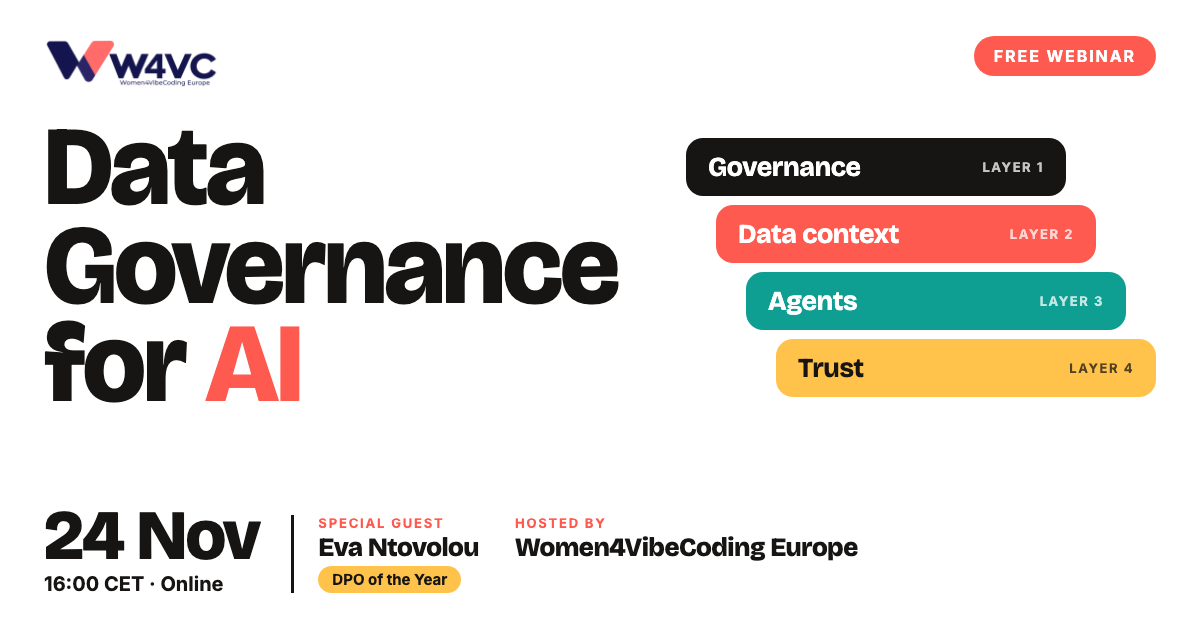
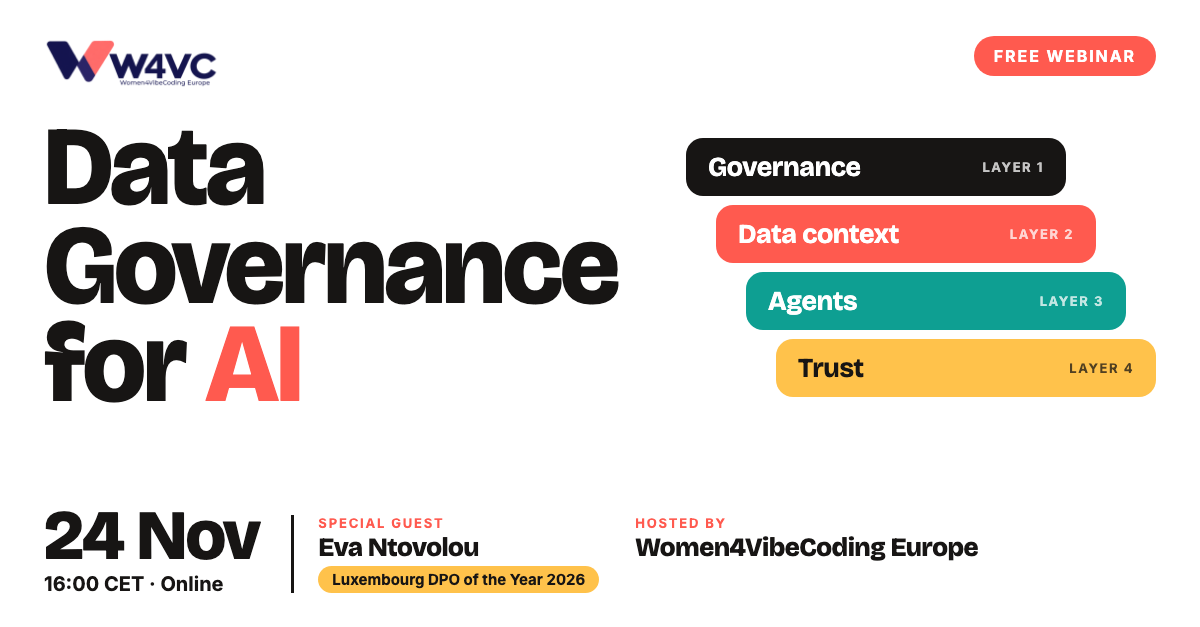
Add files via upload

Changed region(s): [[0.2775, 0.8182, 0.8325, 0.9697]]

diff --git a/partners/index.html b/partners/index.html
@@ -94,7 +94,7 @@ canvas { width: 100%; height: auto; display: block; }
 .tabs { display: grid; grid-template-columns: repeat(4, minmax(0, 1fr)); gap: 10px; }
 .tab { border: 1.5px solid var(--line); background: var(--bg); border-radius: 18px; padding: 16px; text-align: left; display: grid; gap: 4px; color: var(--ink); }
 .tab b { font-family: var(--display); font-weight: 700; font-size: 19px; line-height: 1.1; }
-.tab span { font-family: var(--display); font-weight: 800; font-size: 26px; }
+.tab span { font-family: var(--display); font-weight: 800; font-size: 19px; line-height: 1.15; }
 .tab small { color: var(--muted); font-size: 13px; }
 .tab[aria-selected="true"] { background: var(--ink); border-color: var(--ink); color: #fff; }
 .tab[aria-selected="true"] small { color: #cfc8c4; } .tab[aria-selected="true"] span { color: var(--sun); }
@@ -109,6 +109,8 @@ canvas { width: 100%; height: auto; display: block; }
 .journey i { width: 32px; height: 32px; border-radius: 50%; border: 3px solid var(--line); background: var(--bg); position: relative; z-index: 1; transition: all .25s; }
 .journey li.on { color: var(--ink); }
 .journey li.on i { background: var(--coral); border-color: var(--coral); box-shadow: 0 0 0 6px var(--coral-tint); }
+.journey li.opt { color: var(--ink); }
+.journey li.opt i { border-style: dashed; border-color: var(--coral); }
 .journey li.on.star i { background: var(--ink); border-color: var(--ink); box-shadow: 0 0 0 6px var(--sun); }
 .journey em { font-style: normal; font-weight: 500; font-size: 11px; letter-spacing: .08em; text-transform: uppercase; color: var(--muted); }
 .bars { display: grid; gap: 10px; }
@@ -132,9 +134,11 @@ canvas { width: 100%; height: auto; display: block; }
 .reply h3 { font-weight: 800; font-size: clamp(24px, 3vw, 34px); line-height: 1.05; }
 .reply label { display: grid; gap: 6px; font-size: 12px; font-weight: 700; letter-spacing: .1em; text-transform: uppercase; color: #bdb6b2; margin-top: 16px; }
 .reply input { font: inherit; font-size: 16px; padding: 11px 12px; border-radius: 12px; border: 1.5px solid rgba(255,255,255,.25); background: rgba(255,255,255,.07); color: #fff; width: 100%; }
-.msg { background: rgba(255,255,255,.08); border-radius: 16px; padding: 16px; font-size: 16px; line-height: 1.5; user-select: all; }
+.msg { background: rgba(255,255,255,.08); border-radius: 16px; padding: 16px; font-size: 16px; line-height: 1.5; user-select: all; white-space: pre-wrap; }
 .btns { display: flex; flex-wrap: wrap; gap: 10px; margin-top: 14px; align-items: center; }
-.go { background: var(--coral); color: #fff; border: 0; border-radius: 999px; padding: 12px 22px; font-weight: 700; }
+.go { background: var(--coral); color: #fff; border: 0; border-radius: 999px; padding: 12px 22px; font-weight: 700; text-decoration: none; display: inline-block; }
+.hint { font-size: 13px; color: var(--muted); }
+.ask { justify-self: start; margin-top: 4px; }
 .no { background: transparent; color: #d9d3cf; border: 1.5px solid rgba(255,255,255,.3); border-radius: 999px; padding: 11px 18px; }
 .status { font-size: 13px; color: #cfc8c4; margin-top: 12px; } .status a { color: #fff; }
 
@@ -172,7 +176,7 @@ footer .wrap { padding-block: 22px; display: flex; flex-wrap: wrap; gap: 8px 24p
   <div class="wrap">
     <img src="logo.png" alt="W4VC, Women4VibeCoding Europe">
     <nav aria-label="Sections"><a href="#audience">Audience</a><a href="#layers">The topic</a><a href="#packages">Packages</a><a href="#hosts">Hosts</a></nav>
-    <a class="cta" href="#reserve">Reserve a place</a>
+    <a class="cta" href="#reserve">Request the budget</a>
   </div>
 </div>
 
@@ -190,7 +194,7 @@ footer .wrap { padding-block: 22px; display: flex; flex-wrap: wrap; gap: 8px 24p
         <div><b id="cd-d">12</b><span>days</span></div><div><b id="cd-h">00</b><span>hours</span></div>
         <div><b id="cd-m">00</b><span>min</span></div><div><b id="cd-s">00</b><span>sec</span></div>
       </div>
-      <p>Special guest <b>Eva Ntovolou</b>, DPO of the Year. Hosted by <b>Women4VibeCoding Europe</b>.</p>
+      <p>Special guest <b>Eva Ntovolou</b>, Luxembourg DPO of the Year 2026. Hosted by <b>Women4VibeCoding Europe</b>.</p>
     </div>
   </div>
 </header>
@@ -239,12 +243,13 @@ footer .wrap { padding-block: 22px; display: flex; flex-wrap: wrap; gap: 8px 24p
 
 <section id="packages">
   <div class="wrap">
-    <div class="head"><div class="kicker">Packages</div><h2>See what your brand gets</h2><p>Choose a package. The charts show where your brand appears, from registration to the report. Prices exclude VAT.</p></div>
+    <div class="head"><div class="kicker">Packages</div><h2>See what your brand gets</h2><p>Choose a package. The charts show where your brand appears, from registration to the report. Then ask for the budget: the email is already written for you.</p></div>
     <div class="tabs" role="tablist" aria-label="Packages" id="tabs"></div>
     <div class="bento dash">
       <div class="tile d-journey">
         <h3>Where your brand appears</h3>
         <ol class="journey" id="journey"></ol>
+        <small class="hint">Dashed circle: available on request.</small>
       </div>
       <div class="tile d-bars">
         <h3>Brand touchpoints, out of 8</h3>
@@ -257,6 +262,7 @@ footer .wrap { padding-block: 22px; display: flex; flex-wrap: wrap; gap: 8px 24p
       <div class="tile d-list">
         <h3 id="list-title">Also included</h3>
         <ul id="extras"></ul>
+        <a class="cta ask" href="#reserve" id="ask">Request the budget</a>
       </div>
     </div>
   </div>
@@ -264,17 +270,17 @@ footer .wrap { padding-block: 22px; display: flex; flex-wrap: wrap; gap: 8px 24p
 
 <section id="reserve">
   <div class="wrap">
-    <div class="head"><div class="kicker">Reserve</div><h2>Pick your category</h2><p>One brand per category, so your competitors are not next to you. Tap yours.</p></div>
+    <div class="head"><div class="kicker">Request the budget</div><h2>Pick your category</h2><p>One brand per category, so your competitors are not next to you. Tap yours and the email below is written for you.</p></div>
     <div class="board" id="board"></div>
     <div class="reply">
       <div>
-        <h3>Your reply, ready to send</h3>
+        <h3>Your email, already written</h3>
         <label for="company">Your company<input id="company" type="text" autocomplete="organization" placeholder="Company name"></label>
       </div>
       <div>
         <div class="msg" id="msg"></div>
-        <div class="btns"><button class="go" id="copy" type="button">Copy reply</button><button class="no" id="decline" type="button">Not relevant</button></div>
-        <p class="status" id="status">Copy it and send it to Isabel Buganu on <a href="https://www.linkedin.com/in/isabelbuganu" target="_blank" rel="noopener">LinkedIn</a>. One confirmation, one invoice, no long contract.</p>
+        <div class="btns"><a class="go" id="mail" href="mailto:hello@women4vibecoding.eu">Open in email</a><button class="no" id="copy" type="button">Copy text</button><button class="no" id="decline" type="button">Not relevant</button></div>
+        <p class="status" id="status">It goes to hello@women4vibecoding.eu. If the button does not open your email app, copy the text and send it to that address. We reply with the budget for your category.</p>
       </div>
     </div>
   </div>
@@ -292,7 +298,7 @@ footer .wrap { padding-block: 22px; display: flex; flex-wrap: wrap; gap: 8px 24p
       <div class="person guest">
         <span class="badge">Special guest</span>
         <h3>Eva Ntovolou</h3>
-        <p><b>DPO of the Year.</b> Attorney at law specialising in privacy, data protection and AI governance. She explains why organisations must interpret shared data consistently, and what that means for Luxembourg and Europe.</p>
+        <p><b>Luxembourg DPO of the Year 2026.</b> Attorney at law specialising in privacy, data protection and AI governance. She explains why organisations must interpret shared data consistently, and what that means for Luxembourg and Europe.</p>
       </div>
     </div>
   </div>
@@ -302,8 +308,8 @@ footer .wrap { padding-block: 22px; display: flex; flex-wrap: wrap; gap: 8px 24p
   <div class="wrap">
     <div class="head"><div class="kicker">Next</div><h2>After you say yes</h2></div>
     <ol class="steps">
-      <li><b>Confirm by 19 November</b>Reply with your package and category. We confirm the place is yours.</li>
-      <li><b>Send your material</b>Logo, link, and your code or resource. Featured: we agree your 15-minute topic.</li>
+      <li><b>Ask for the budget</b>Send the ready email with your package and category. We reply with the budget.</li>
+      <li><b>Confirm by 19 November</b>We hold your category, you send logo and link. Featured: we agree your 20-minute topic.</li>
       <li><b>24 November, live</b>Your brand appears in the emails, on the slides and in the session.</li>
       <li><b>Report within 7 days</b>Registrations, live attendance and clicks on your links. No personal data.</li>
     </ol>
@@ -355,22 +361,22 @@ footer .wrap { padding-block: 22px; display: flex; flex-wrap: wrap; gap: 8px 24p
   /* packages */
   var STOPS = [["Registration page", "before"], ["Reminder email", "before"], ["Opening slide", "live"], ["Speaking slot", "live"], ["Host mention", "live"], ["Closing slide", "live"], ["Follow-up email", "after"], ["Results report", "after"]];
   var P = [
-    { id: "featured", name: "Featured Partner", price: "€1,200", note: "1 place only", on: [1,1,1,1,1,1,1,1], stage: 15, stageNote: "A 15-minute speaking slot for your expert, topic agreed with us in advance.",
-      extras: ["Your own section in both emails", "Your booking link on the closing slide", "No competitor in your category", "First right to the 2027 editions"] },
-    { id: "pilot", name: "Pilot Partner", price: "€500", note: "one per category", on: [1,1,1,0,0,1,1,1], stage: 0, stageNote: "Your logo is on screen at the opening and the close.",
-      extras: ["Logo and link in both emails", "One resource or offer from you in the follow-up", "No competitor in your category", "First right to the 2027 editions"] },
-    { id: "gift", name: "Gift Guide listing", price: "€250", note: "consumer brands", on: [0,1,0,0,0,0,1,1], stage: 0, stageNote: "Your offer travels by email, in the Black Friday Founders' Gift Guide.",
+    { id: "featured", name: "Featured Partner", tag: "Speaking slot + demo", note: "1 place only", on: [1,1,1,1,1,1,1,1], stage: "20", stageNote: "A 20-minute speaking slot for your expert, with the option to demo your product. Topic agreed with us in advance.",
+      extras: ["Demo option inside your speaking slot", "Your own section in both emails", "Your booking link on the closing slide", "No competitor in your category", "First right to the 2027 editions"] },
+    { id: "pilot", name: "Pilot Partner", tag: "Brand visibility", note: "one per category", on: [1,1,1,2,0,1,1,1], stage: "Optional", stageNote: "Your logo is on screen at the opening and the close. A speaking slot can be added on request.",
+      extras: ["Speaking slot available on request", "Logo and link in both emails", "One resource or offer from you in the follow-up", "No competitor in your category", "First right to the 2027 editions"] },
+    { id: "gift", name: "Gift Guide listing", tag: "Black Friday guide", note: "consumer brands", on: [0,1,0,0,0,0,1,1], stage: "0", stageNote: "Your offer travels by email, in the Black Friday Founders' Gift Guide.",
       extras: ["A place in the Black Friday Founders' Gift Guide", "Your own code or link, so you count orders yourself", "One brand per category"] },
-    { id: "community", name: "Community Partner", price: "In kind", note: "no invoice", on: [0,0,0,0,0,1,1,0], stage: 0, stageNote: "You give a prize or share the webinar with your audience.",
-      extras: ["Logo on the thank-you slide", "A mention in the follow-up email", "We discuss a paid place for the next edition"] }
+    { id: "community", name: "Community Partner", tag: "In kind", note: "no budget needed", on: [0,0,0,0,0,1,1,0], stage: "0", stageNote: "You give a prize or share the webinar with your audience.",
+      extras: ["Logo on the thank-you slide", "A mention in the follow-up email", "We discuss a partner place for the next edition"] }
   ];
   var CATS = ["Legal", "AI and automation", "Data and cloud", "Cybersecurity", "Software and consulting", "Banking and finance", "Telecom", "Food and gifts", "Beauty and fashion", "Travel and experiences", "Other"];
   var sel = 1, cat = null, declined = false;
-  function count(p) { return p.on.reduce(function (a, b) { return a + b; }, 0); }
+  function count(p) { return p.on.reduce(function (a, b) { return a + (b === 1 ? 1 : 0); }, 0); }
 
   P.forEach(function (p, i) {
     var b = el("button", "tab"); b.type = "button"; b.setAttribute("role", "tab"); b.id = "tab-" + p.id;
-    b.appendChild(el("b", null, p.name)); b.appendChild(el("span", null, p.price)); b.appendChild(el("small", null, p.note));
+    b.appendChild(el("b", null, p.name)); b.appendChild(el("span", null, p.tag)); b.appendChild(el("small", null, p.note));
     b.addEventListener("click", function () { sel = i; declined = false; render(); });
     $("tabs").appendChild(b);
     var r = el("div", "bar"); r.appendChild(el("span", null, p.name.replace(" Partner", "").replace(" listing", "")));
@@ -386,20 +392,22 @@ footer .wrap { padding-block: 22px; display: flex; flex-wrap: wrap; gap: 8px 24p
   function render() {
     var p = P[sel];
     [].forEach.call($("tabs").children, function (b, i) { b.setAttribute("aria-selected", i === sel ? "true" : "false"); });
-    [].forEach.call($("journey").children, function (li, i) { li.className = (p.on[i] ? "on" : "") + (p.on[i] && i === 3 ? " star" : ""); });
+    [].forEach.call($("journey").children, function (li, i) { li.className = p.on[i] === 1 ? "on" + (i === 3 ? " star" : "") : p.on[i] === 2 ? "opt" : ""; });
     [].forEach.call($("bars").children, function (r, i) { r.className = "bar" + (i === sel ? " on" : ""); r.querySelector("i").style.width = (count(P[i]) / 8 * 100) + "%"; });
-    $("stage").textContent = p.stage; $("stage-note").textContent = p.stageNote;
+    $("stage").textContent = p.stage; $("stage").style.fontSize = isNaN(p.stage) ? "clamp(34px, 4vw, 48px)" : ""; $("stage-note").textContent = p.stageNote; $("ask").textContent = "Request the budget for " + p.name;
     $("list-title").textContent = p.name + " also includes";
     var ul = $("extras"); ul.textContent = ""; p.extras.forEach(function (t) { ul.appendChild(el("li", null, t)); });
     [].forEach.call($("board").children, function (b) { var on = b.firstChild.textContent === cat; b.setAttribute("aria-pressed", on ? "true" : "false"); b.querySelector("small").textContent = on ? "Your pick" : "Open"; });
-    var co = $("company").value.trim() || "[company]", money = p.price === "In kind" ? "in kind" : p.price + " + VAT";
-    $("msg").textContent = declined
-      ? "Hi Isabel, thank you, this is not relevant for " + co + " right now."
-      : "Hi Isabel, " + co + " would like the " + p.name + " place (" + money + ") in the " + (cat || "[category]") + " category for the 24 November webinar. Please send the next steps.";
+    var co = $("company").value.trim() || "[company]", c = cat || "[category]";
+    var body = declined
+      ? "Hello Isabel,\n\nThank you, this is not relevant for " + co + " right now.\n\nBest regards,"
+      : "Hello Isabel,\n\n" + co + " is interested in the " + p.name + " place in the " + c + " category for the Data Governance for AI webinar on 24 November.\n\nCould you send us the budget for this option and what it includes?\n\nBest regards,";
+    $("msg").textContent = body;
+    $("mail").href = "mailto:hello@women4vibecoding.eu?subject=" + encodeURIComponent((declined ? "Not relevant" : p.name + " · " + c) + " · Data Governance for AI, 24 November") + "&body=" + encodeURIComponent(body);
   }
   function copy() {
     var s = $("status"), text = $("msg").textContent;
-    function done() { s.textContent = "Copied. Paste it in a LinkedIn message to Isabel Buganu."; }
+    function done() { s.textContent = "Copied. Paste it into an email to hello@women4vibecoding.eu."; }
     function manual() { var r = document.createRange(); r.selectNodeContents($("msg")); var g = getSelection(); g.removeAllRanges(); g.addRange(r); s.textContent = "The text is selected. Press Ctrl+C or Cmd+C to copy it."; }
     try { navigator.clipboard.writeText(text).then(done, manual); } catch (e) { manual(); }
   }
